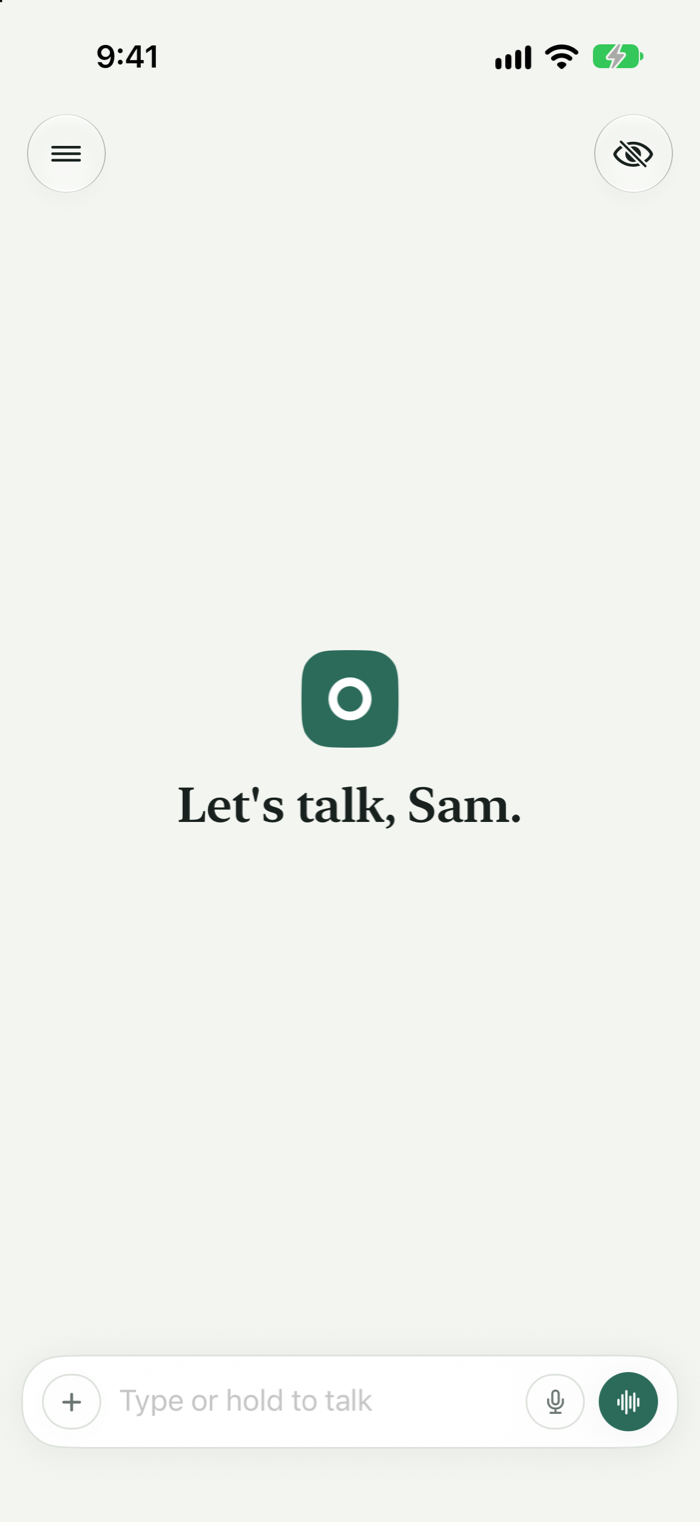
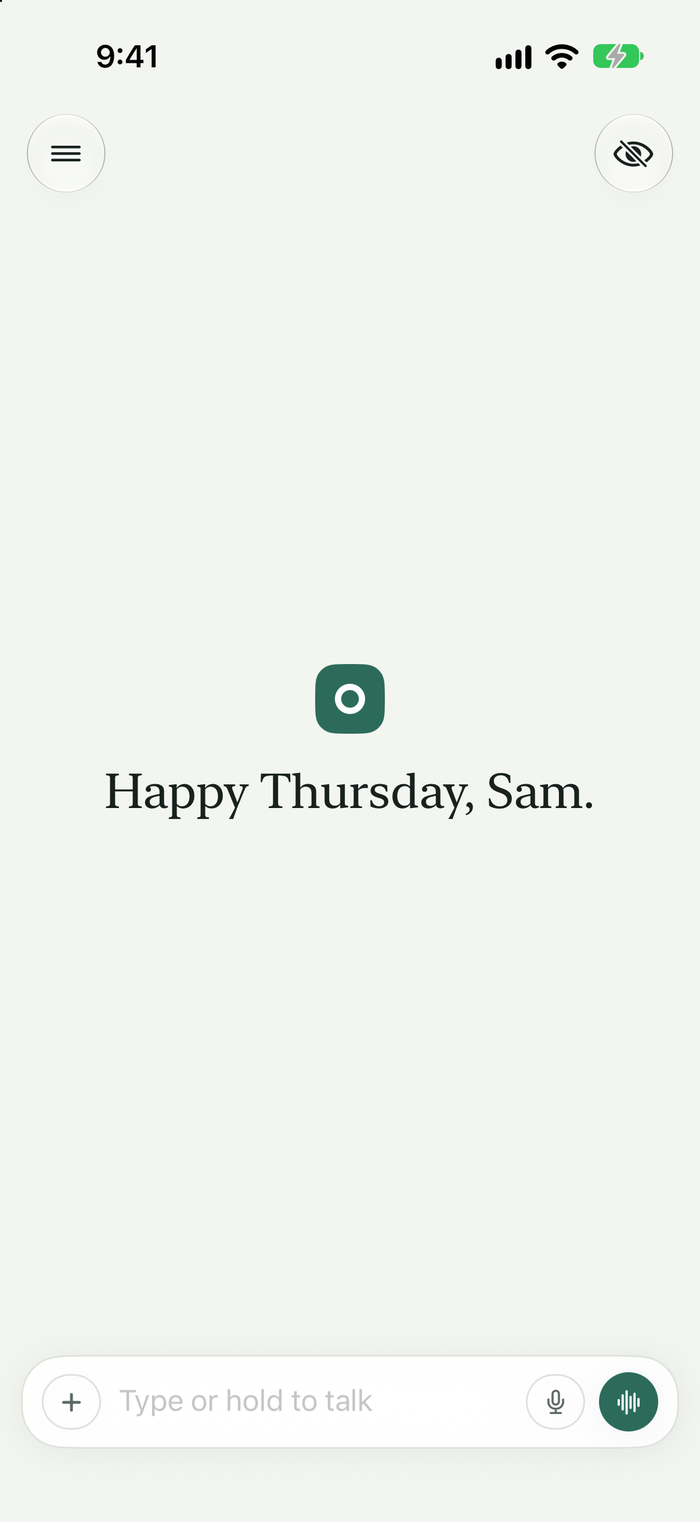
feat: larger text and a centred new chat on the Mac, and the readme's pictures retaken - Update `Font+Hearth.swift` set text on a Mac a quarter larger, not a tenth - Update `HearthFont.swift` a larger greeting on a Mac, and a row style for the chat list that is a step smaller there - Update `Sidebar

diff --git a/HearthKit/Sources/HearthUI/Screens/Chat/ChatView.swift b/HearthKit/Sources/HearthUI/Screens/Chat/ChatView.swift
@@ -5,6 +5,13 @@ import SwiftUI
 struct ChatView: View {
     private static let followUpsID = "followUps"
     private static let messageSpacing: CGFloat = 22
+    /// Whether a new chat's composer rests in the middle of the window under the greeting, as on a Mac, whose window
+    /// is too tall to leave it alone at the foot.
+    #if targetEnvironment(macCatalyst)
+    private static let centersNewChat = true
+    #else
+    private static let centersNewChat = false
+    #endif
 
     let presenter: ChatPresenter
 
@@ -12,9 +19,11 @@ struct ChatView: View {
 
     var body: some View {
         let viewModel = presenter.viewModel
+        // With nothing said yet, a Mac's composer rises to the middle, the greeting resting on it.
+        let isCentred = Self.centersNewChat && viewModel.conversation.messages.isEmpty && presenter.isServerConfigured
         VStack(spacing: 0) {
             // Both stay in the tree with one of them hidden, rather than being swapped, so neither is rebuilt as a chat begins.
-            ZStack {
+            ZStack(alignment: isCentred ? .bottom : .center) {
                 messageList(viewModel: viewModel)
                     .opacity(viewModel.conversation.messages.isEmpty ? 0 : 1)
                 EmptyChatSection(
@@ -52,9 +61,14 @@ struct ChatView: View {
             }
             ComposerFooter(presenter: presenter)
                 .frame(maxWidth: HearthSize.readingWidth)
+            // As much room beneath the composer as above it, while it is in the middle.
+            Color.clear
+                .frame(maxHeight: isCentred ? .infinity : 0)
+                .accessibilityHidden(true)
         }
         .background(HearthColor.paper.ignoresSafeArea())
         .animation(.snappy, value: viewModel.error)
+        .animation(.snappy, value: isCentred)
         // One haptic as a turn ends, never while its text streams: soft for a reply, fuller for a picture.
         // Nothing is played for a turn that ends off screen, or one that came to nothing.
         .onChange(of: viewModel.isStreaming) { _, isStreaming in

diff --git a/HearthKit/Sources/HearthUI/DesignSystem/Tokens/HearthFont.swift b/HearthKit/Sources/HearthUI/DesignSystem/Tokens/HearthFont.swift
@@ -7,8 +7,18 @@ import SwiftUI
 enum HearthFont {
     /// The app's name beside its mark.
     static let brand = Font.hearth(.title2, design: .serif).weight(.bold)
-    /// The one large line on an otherwise empty screen.
+    /// The one large line on an otherwise empty screen. A Mac's window has the room for a larger one.
+    #if targetEnvironment(macCatalyst)
+    static let display = Font.hearth(.largeTitle, design: .serif)
+    #else
     static let display = Font.hearth(.title, design: .serif)
+    #endif
+    /// The name of a chat or a project in the chat list. A Mac sets it a step smaller, as its lists are.
+    #if targetEnvironment(macCatalyst)
+    static let listRow = Font.hearth(.subheadline)
+    #else
+    static let listRow = Font.hearth(.body)
+    #endif
     /// The caption of a voice conversation.
     static let spoken = Font.hearth(.title3, design: .serif)
     /// The contents of a code block.

diff --git a/HearthKit/Sources/HearthUI/Platform/WindowScene.swift b/HearthKit/Sources/HearthUI/Platform/WindowScene.swift
@@ -20,6 +20,16 @@ extension View {
         }
     }
 
+    /// Leaves the Mac window this view is in without its name in the title bar, where the view shows the name itself.
+    /// An iPhone or iPad has no title bar, and ignores it.
+    func hidesWindowTitle() -> some View {
+        onWindowScene { scene in
+            #if targetEnvironment(macCatalyst)
+            scene.titlebar?.titleVisibility = .hidden
+            #endif
+        }
+    }
+
     /// Keeps the Mac window this view is in from being made smaller than `size`. An iPhone or iPad sizes its windows
     /// itself, and ignores it.
     func windowMinimumSize(_ size: CGSize) -> some View {

diff --git a/HearthKit/Sources/HearthUI/DesignSystem/Tokens/Font+Hearth.swift b/HearthKit/Sources/HearthUI/DesignSystem/Tokens/Font+Hearth.swift
@@ -2,8 +2,9 @@ import SwiftUI
 import UIKit
 
 extension Font {
-    /// How much larger text is set on a Mac, whose window is read from further away than a phone.
-    static let macTextScale: CGFloat = 1.1
+    /// How much larger text is set on a Mac, whose window is read from further away than a phone, and which draws an
+    /// iPad's layout at about three quarters of its size.
+    static let macTextScale: CGFloat = 1.25
 
     /// A system text style. On an iPhone or iPad it follows the reader's text size; on a Mac it is set a little larger,
     /// and follows the text size chosen for the app in the Mac's settings where the system passes it on.

diff --git a/HearthKit/Tests/HearthUITests/MenusAndTextSizeTests.swift b/HearthKit/Tests/HearthUITests/MenusAndTextSizeTests.swift
@@ -45,10 +45,10 @@ struct MenusAndTextSizeTests {
 
     // MARK: Text on a Mac
 
-    @Test func `a Mac with no text size of its own sets text a tenth larger`() {
+    @Test func `a Mac with no text size of its own sets text a quarter larger`() {
         let size = Font.macPointSize(base: 17, preferred: 17, standard: 17)
 
-        #expect(abs(size - 18.7) < 0.001)
+        #expect(abs(size - 21.25) < 0.001)
     }
 
     @Test(arguments: [(preferred: 20.0, standard: 17.0), (preferred: 14.0, standard: 17.0), (preferred: 13.0, standard: 13.0)])

diff --git a/HearthKit/Sources/HearthUI/Screens/Sidebar/SidebarView.swift b/HearthKit/Sources/HearthUI/Screens/Sidebar/SidebarView.swift
@@ -146,7 +146,7 @@ struct SidebarView: View {
                     .frame(width: rowSymbolWidth)
                     .accessibilityHidden(true)
                 Text(row.title)
-                    .font(.hearth(.body))
+                    .font(HearthFont.listRow)
                     .foregroundStyle(HearthColor.ink)
                     .lineLimit(titleLineLimit)
                     .frame(maxWidth: .infinity, alignment: .leading)

diff --git a/HearthKit/Sources/HearthUI/Screens/Sidebar/SidebarView+Projects.swift b/HearthKit/Sources/HearthUI/Screens/Sidebar/SidebarView+Projects.swift
@@ -62,7 +62,7 @@ extension SidebarView {
                     .frame(width: rowSymbolWidth)
                     .accessibilityHidden(true)
                 Text(title)
-                    .font(.hearth(.body))
+                    .font(HearthFont.listRow)
                     .foregroundStyle(tint)
                     .lineLimit(titleLineLimit)
                     .frame(maxWidth: .infinity, alignment: .leading)

diff --git a/HearthKit/Sources/HearthUI/Screens/Root/RootView.swift b/HearthKit/Sources/HearthUI/Screens/Root/RootView.swift
@@ -57,6 +57,7 @@ struct RootView: View {
         .tint(HearthColor.pine)
         // On a Mac the window cannot be made so small that the chat list and the chat no longer fit.
         .windowMinimumSize(WindowMinimumSize.chat)
+        .hidesWindowTitle()
     }
 
     /// The editor of a task begun from the composer, or the notice that tasks need sync.

diff --git a/README.md b/README.md
@@ -14,7 +14,7 @@ and run scheduled tasks. Nothing goes through anyone else's service unless you p
 <p align="center">
   <img src="docs/screenshots/welcome.png" alt="An empty chat greeting Sam by name" width="24%">
   <img src="docs/screenshots/chat.png" alt="A reply with headings, a list and two code blocks, answered by gemma4" width="24%">
-  <img src="docs/screenshots/research.png" alt="A deep research report with a table, citations and its numbered sources" width="24%">
+  <img src="docs/screenshots/research.png" alt="A deep research report with a table, citations, its numbered sources and the sources button" width="24%">
   <img src="docs/screenshots/sidebar.png" alt="The chat list with a project, a pinned chat, scheduled task answers and chats grouped by day" width="24%">
 </p>
 
@@ -83,7 +83,7 @@ and run scheduled tasks. Nothing goes through anyone else's service unless you p
 
 | | | |
 |:---:|:---:|:---:|
-| <img src="docs/screenshots/models.png" width="240" alt="The model sheet with gemma4 on your server and two cloud models"><br>Models on your server and in the cloud | <img src="docs/screenshots/plus-menu.png" width="240" alt="The + menu: choose file, take photo, photo library, make a picture, schedule a task"><br>The + menu | <img src="docs/screenshots/canvas.png" width="240" alt="A tip calculator page running in the canvas"><br>A page in the canvas |
+| <img src="docs/screenshots/models.png" width="240" alt="The model sheet with gemma4 on your server and two cloud models"><br>Models on your server and in the cloud | <img src="docs/screenshots/plus-menu.png" width="240" alt="The + menu: choose file, take photo, photo library, make a picture, read replies aloud, schedule a task, new project"><br>The + menu | <img src="docs/screenshots/canvas.png" width="240" alt="A tip calculator page running in the canvas"><br>A page in the canvas |
 | <img src="docs/screenshots/voice.png" width="240" alt="A voice conversation, listening"><br>Voice conversation | <img src="docs/screenshots/project.png" width="240" alt="The chat list showing one project's chats"><br>A project's chats | <img src="docs/screenshots/project-editor.png" width="240" alt="A project's name, instructions and reference files"><br>A project's instructions |
 | <img src="docs/screenshots/settings.png" width="240" alt="Settings: profile, memory, follow-ups, web search, scheduled tasks, voice and pictures"><br>Settings | <img src="docs/screenshots/settings-bottom.png" width="240" alt="Settings: notifications, theme, vibration, the lock, servers, sync and erase"><br>More settings | <img src="docs/screenshots/memory.png" width="240" alt="The memory page with four saved memories"><br>Memory |
 | <img src="docs/screenshots/servers.png" width="240" alt="Server addresses with a successful connection test"><br>Servers | <img src="docs/screenshots/sync.png" width="240" alt="Sync with a hub address, a saved access key and sync on"><br>Sync with your hub | <img src="docs/screenshots/tasks.png" width="240" alt="Two scheduled tasks with their schedules and last runs"><br>Scheduled tasks |

diff --git a/docs/DESIGN_SYSTEM.md b/docs/DESIGN_SYSTEM.md
@@ -14,7 +14,7 @@ the values and `Components/` holds the few pieces built from them that are used 
    that says what it is: an orb's diameter, a row's vertical padding tuned by eye. It becomes a token
    when a second view needs it.
 5. **Interface text uses the system text styles through `Font.hearth(_:)`** (`.hearth(.body)`,
-   `.hearth(.footnote)`), so it follows Dynamic Type on iPhone and iPad. On a Mac it is set a tenth larger than
+   `.hearth(.footnote)`), so it follows Dynamic Type on iPhone and iPad. On a Mac it is set a quarter larger than
    the style's standard size, grown or shrunk in proportion to the system's preferred size for the style
    (`Font.macPointSize`), so it follows the text size chosen for the app in the Mac's settings wherever the system
    passes it on. `HearthFont` is for the serif and monospaced faces only. Never set a fixed
@@ -158,7 +158,7 @@ Apply one with `.hearthShadow(.composer)`.
 | `Haptics.play(_:)`, `.haptic(_:trigger:when:)` | The one place a haptic is played from | Every haptic; see below |
 | `.surface(_:fill:border:)` | A filled shape with a hairline border inside its edge | Any bordered shape; the modifiers below are built on it |
 | `.cardSurface(radius:border:)` | A card-coloured rounded rectangle with a border | Code blocks, tables, the search field, the composer, the error banner |
-| `.capsuleSurface(fill:)` | A bordered pill | The model picker, sources, attached files |
+| `.capsuleSurface(fill:)` | A bordered pill | The model picker, attached files |
 | `.capsuleOutline(_:)` | A capsule's border with nothing behind it | Quiet controls such as attach and dictate |
 | `.glassSurface(_:tint:)` | The system's interactive glass in the given shape on iOS 26 and later; before that a frosted fill, a hairline edge and the floating shadow | The glass buttons, and the pill holding New chat and the chat's menu |
 | `.hearthShadow(_:)` | One of the shadows above | Lifting a surface off the paper |
@@ -168,7 +168,7 @@ Apply one with `.hearthShadow(.composer)`.
 | `.iconGlyphSize()` | Caps a symbol at the largest standard text size | The symbol of every icon control drawn in a fixed frame |
 | `.largeContentLabel(_:systemImage:)` | Shows the control's name and symbol in the large content viewer | Every icon-only control |
 | `.discardChangesDialog(isPresented:discardAction:)` | Asks "Discard your changes?" with Discard Changes and Keep Editing | Cancel in an editor that has been changed, alongside `.interactiveDismissDisabled` |
-| `SectionHeading(title:kerning:)` | Small capitals in the muted colour, read as a heading | The caption above a group of rows; the caller pads it |
+| `SectionHeading(title:isQuiet:)` | Small capitals in the muted colour, or plain words where quiet, read as a heading | The caption above a group of rows, quiet in the chat list; the caller pads it |
 
 Order matters where a surface also casts a shadow: apply the surface first, then the shadow.
 
